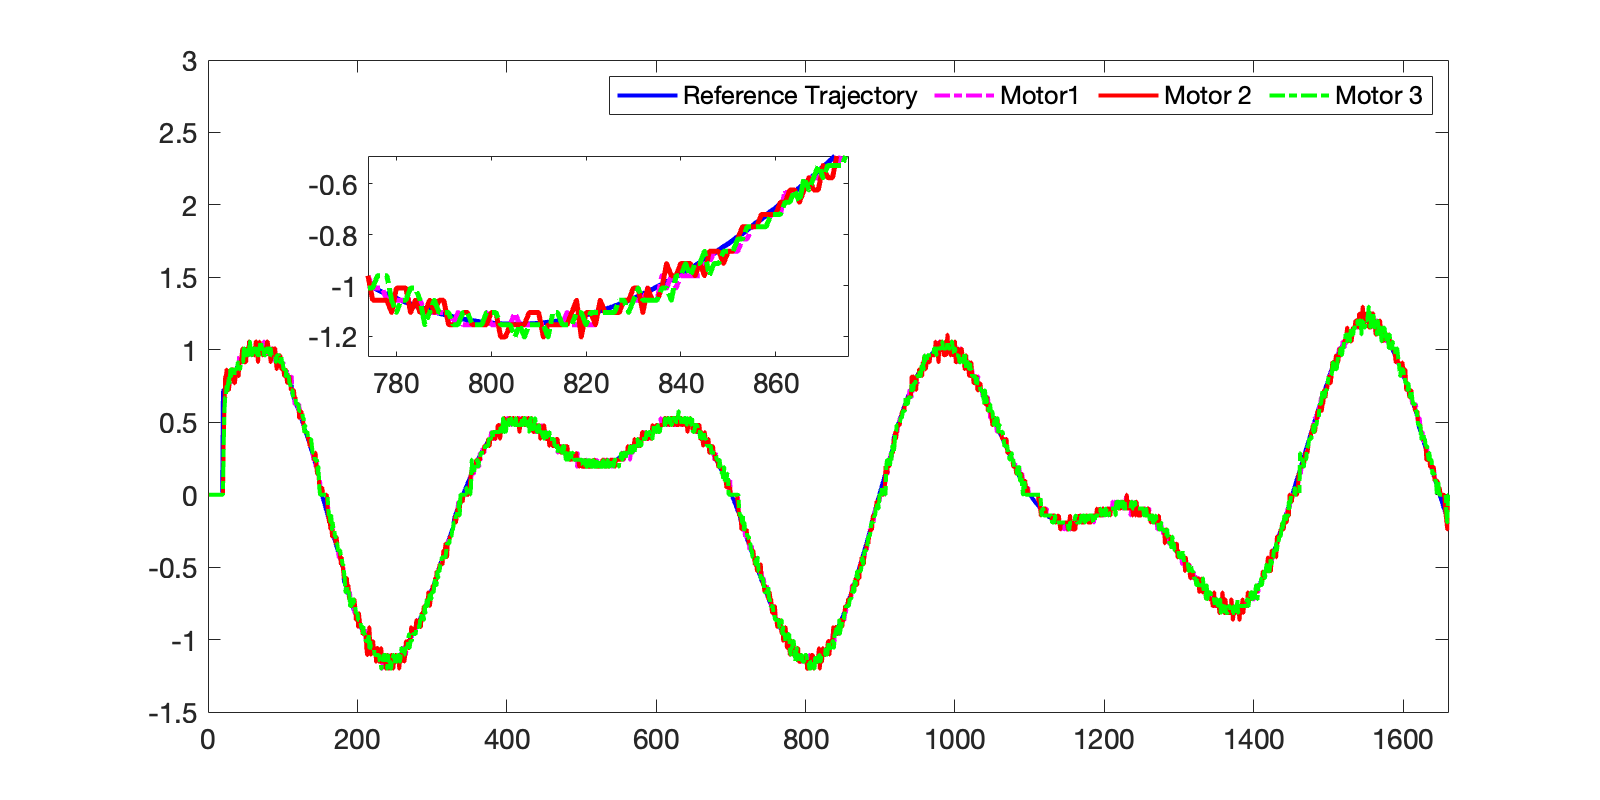
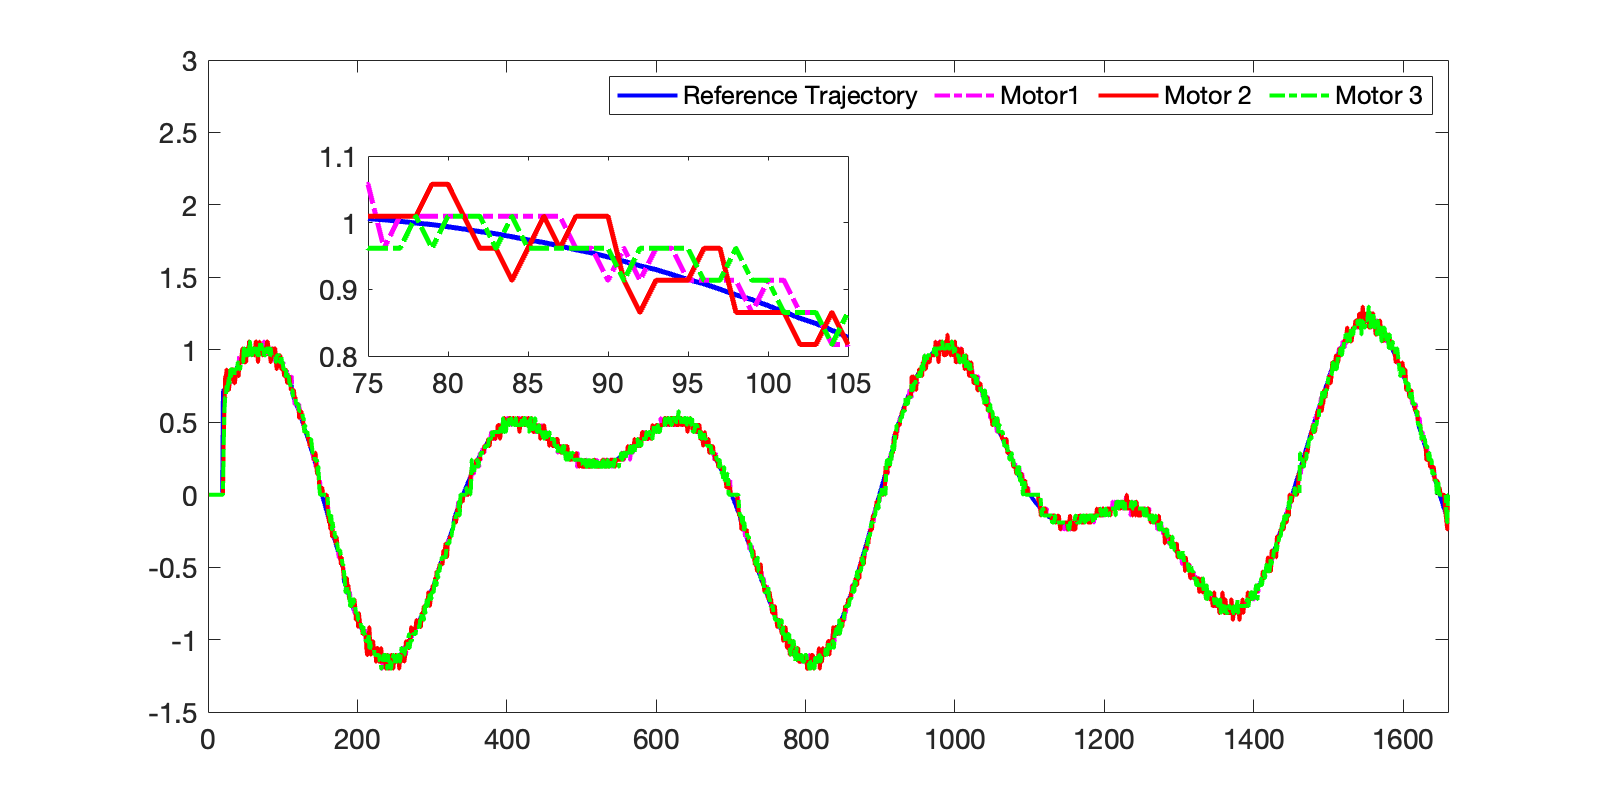
asd

diff --git a/data_plot.m b/data_plot.m
@@ -54,8 +54,8 @@ if ~isempty(ch3_data_match) && ~isempty(ch1_data_match) && ~isempty(ch2_data_mat
     % Add legend
     legend('show','orientation','horizontal');
 
-    zoom_x_start = 80; % Start of zoomed x-range
-    zoom_x_end = 100; % End of zoomed x-range
+    zoom_x_start = 75; % Start of zoomed x-range
+    zoom_x_end = 105; % End of zoomed x-range
     axes('Position', [0.23,0.555,0.30,0.25]);
     box on; hold on;
     plot(ch2_data, '-b', 'LineWidth', 2.5);
